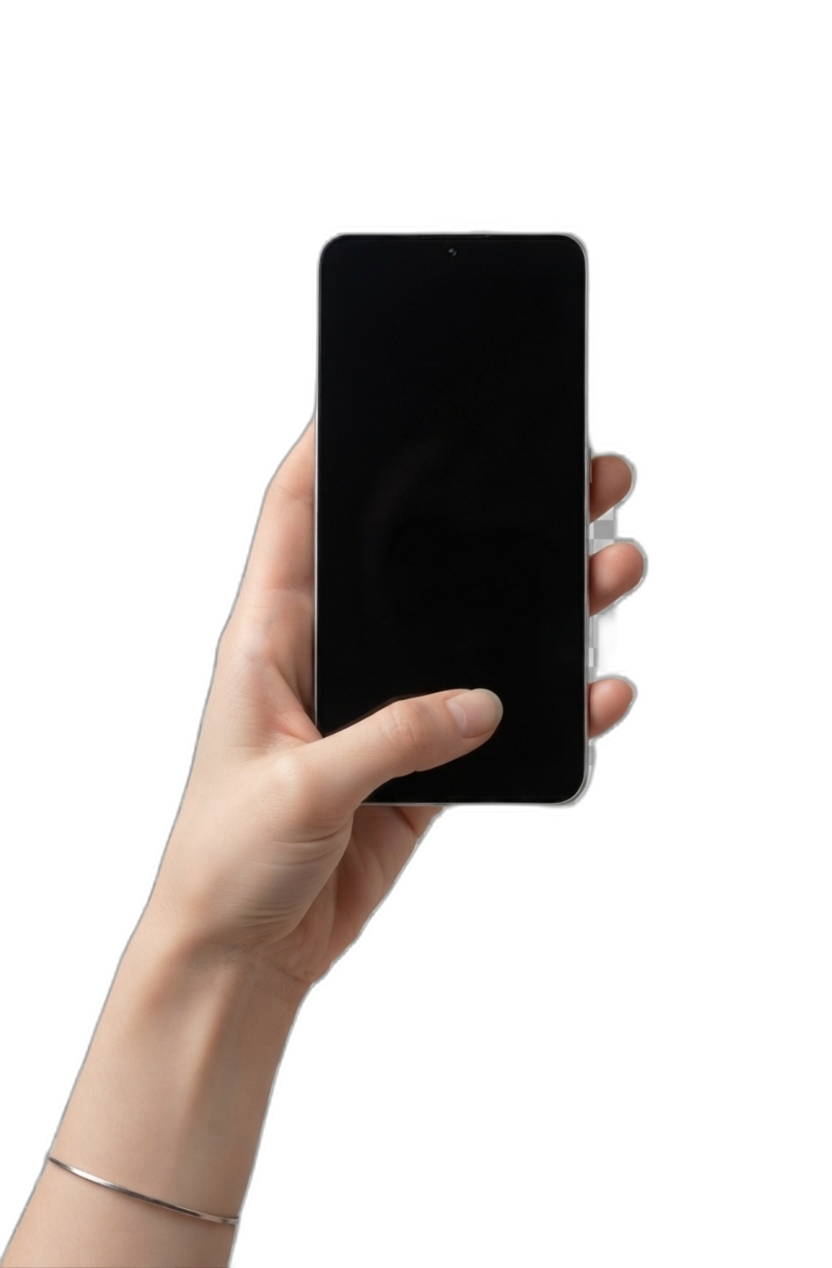
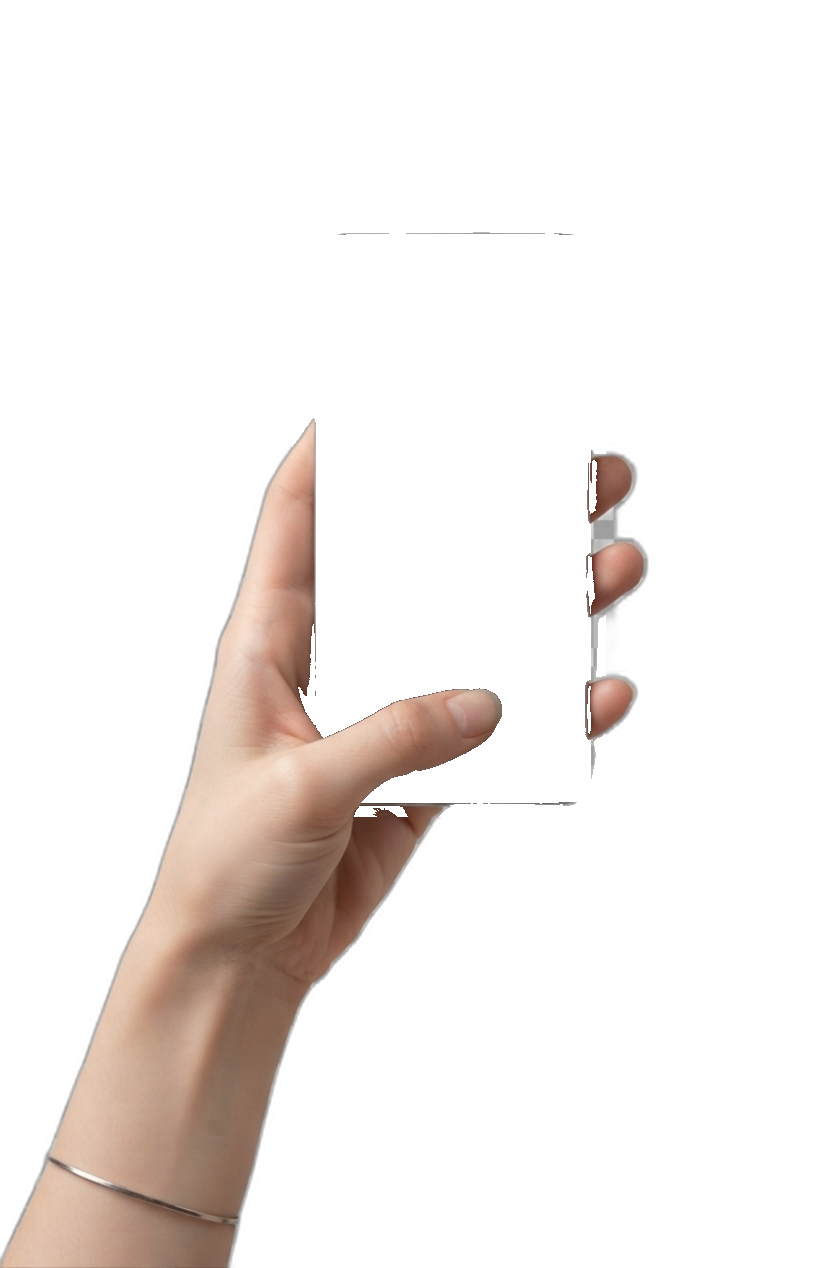
fix: video now shows through hand, living room background behind
1. Made phone screen area transparent in hand-woman.png so the
   device frame's video is visible through the hand overlay
2. Use the living room photo as home environment background
   behind the woman's hand (instead of solid color)

Compositing for hand_woman:
  Layer 1: Living room background (home environment)
  Layer 2: Device frame with video inside
  Layer 3: Hand PNG on top (screen area transparent, fingers visible)

Changed region(s): [[0.3438, 0.1845, 0.7188, 0.6459]]

diff --git a/src/App.tsx b/src/App.tsx
@@ -250,9 +250,27 @@ function Index() {
         const phoneY = hy + hh * phoneRect.cy - drawH / 2;
 
         if (HAND_TRANSPARENT[bg]) {
-          // Transparent hand: background → device frame → hand on top
-          ctx.fillStyle = "#f5f0eb";
-          ctx.fillRect(0, 0, cw, ch);
+          // Transparent hand: living room background → device frame → hand on top
+          // Use the living room photo as a natural home environment background
+          const livingImg = handImgRefs.current["hand_living"];
+          if (livingImg) {
+            // Draw living room background (cover the canvas)
+            const bgAspect = HAND_IMG_ASPECT;
+            let bw: number, bh: number;
+            if (canvasAspect > bgAspect) {
+              bw = cw;
+              bh = cw / bgAspect;
+            } else {
+              bh = ch;
+              bw = ch * bgAspect;
+            }
+            const bx = (cw - bw) / 2;
+            const by = (ch - bh) / 2;
+            ctx.drawImage(livingImg, bx, by, bw, bh);
+          } else {
+            ctx.fillStyle = "#f5f0eb";
+            ctx.fillRect(0, 0, cw, ch);
+          }
           drawPhone(ctx, phoneX, phoneY, drawW, drawH, dev, video, videoFit, videoScale, videoOffsetX, videoOffsetY);
           ctx.drawImage(handImg, hx, hy, hw, hh);
         } else {
